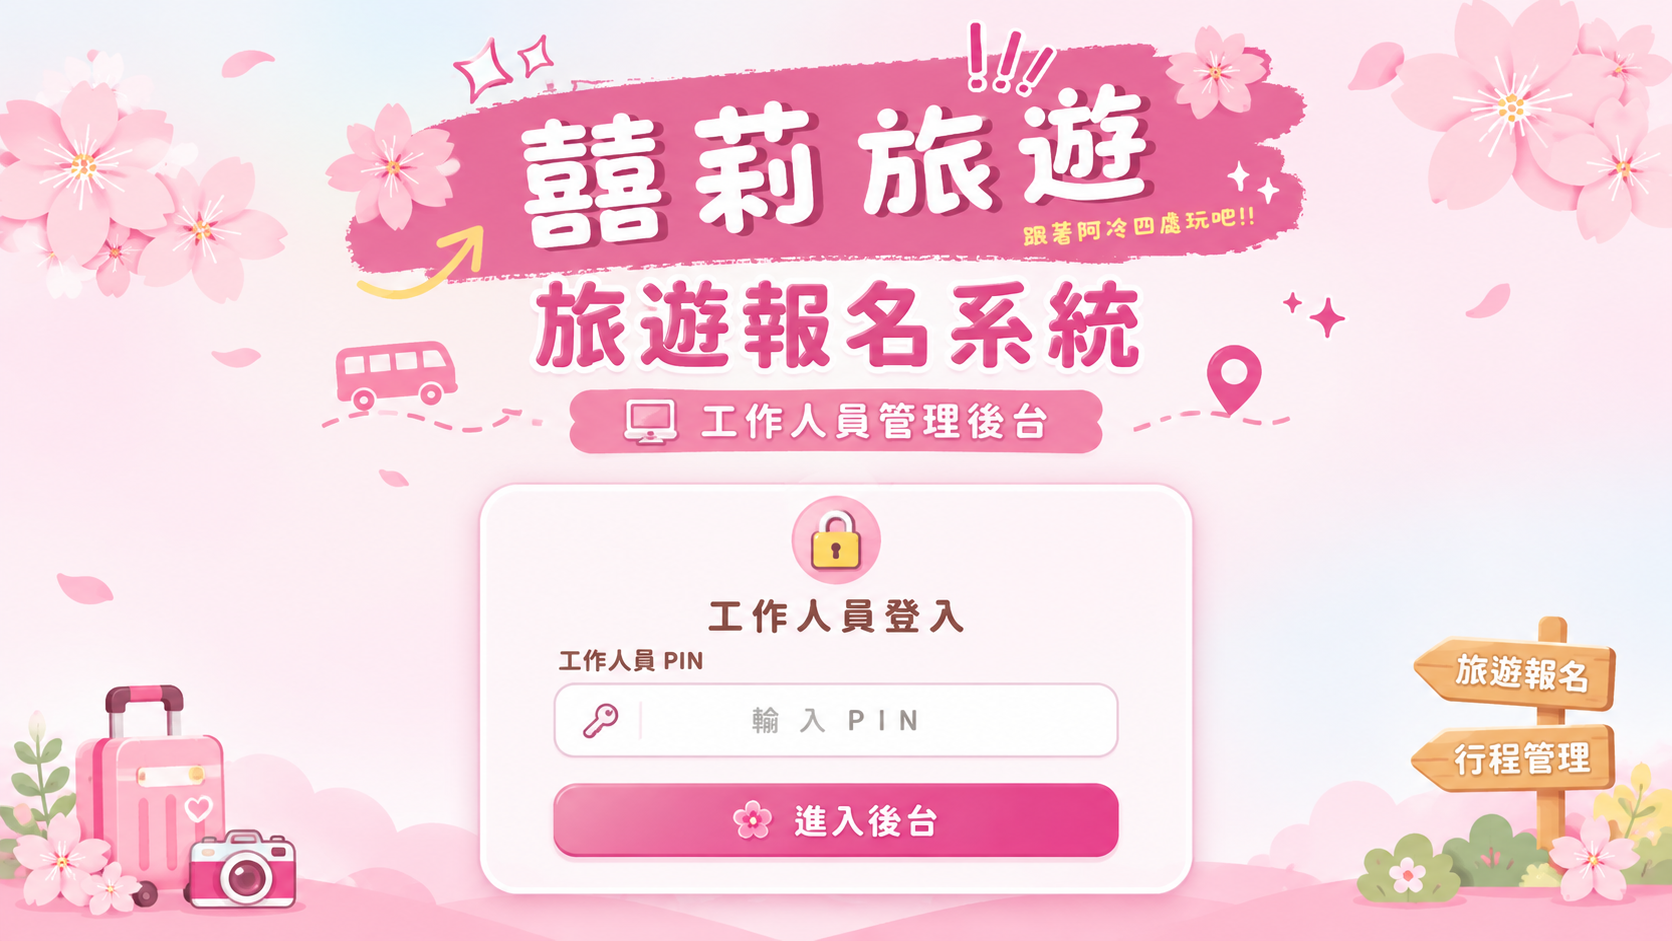
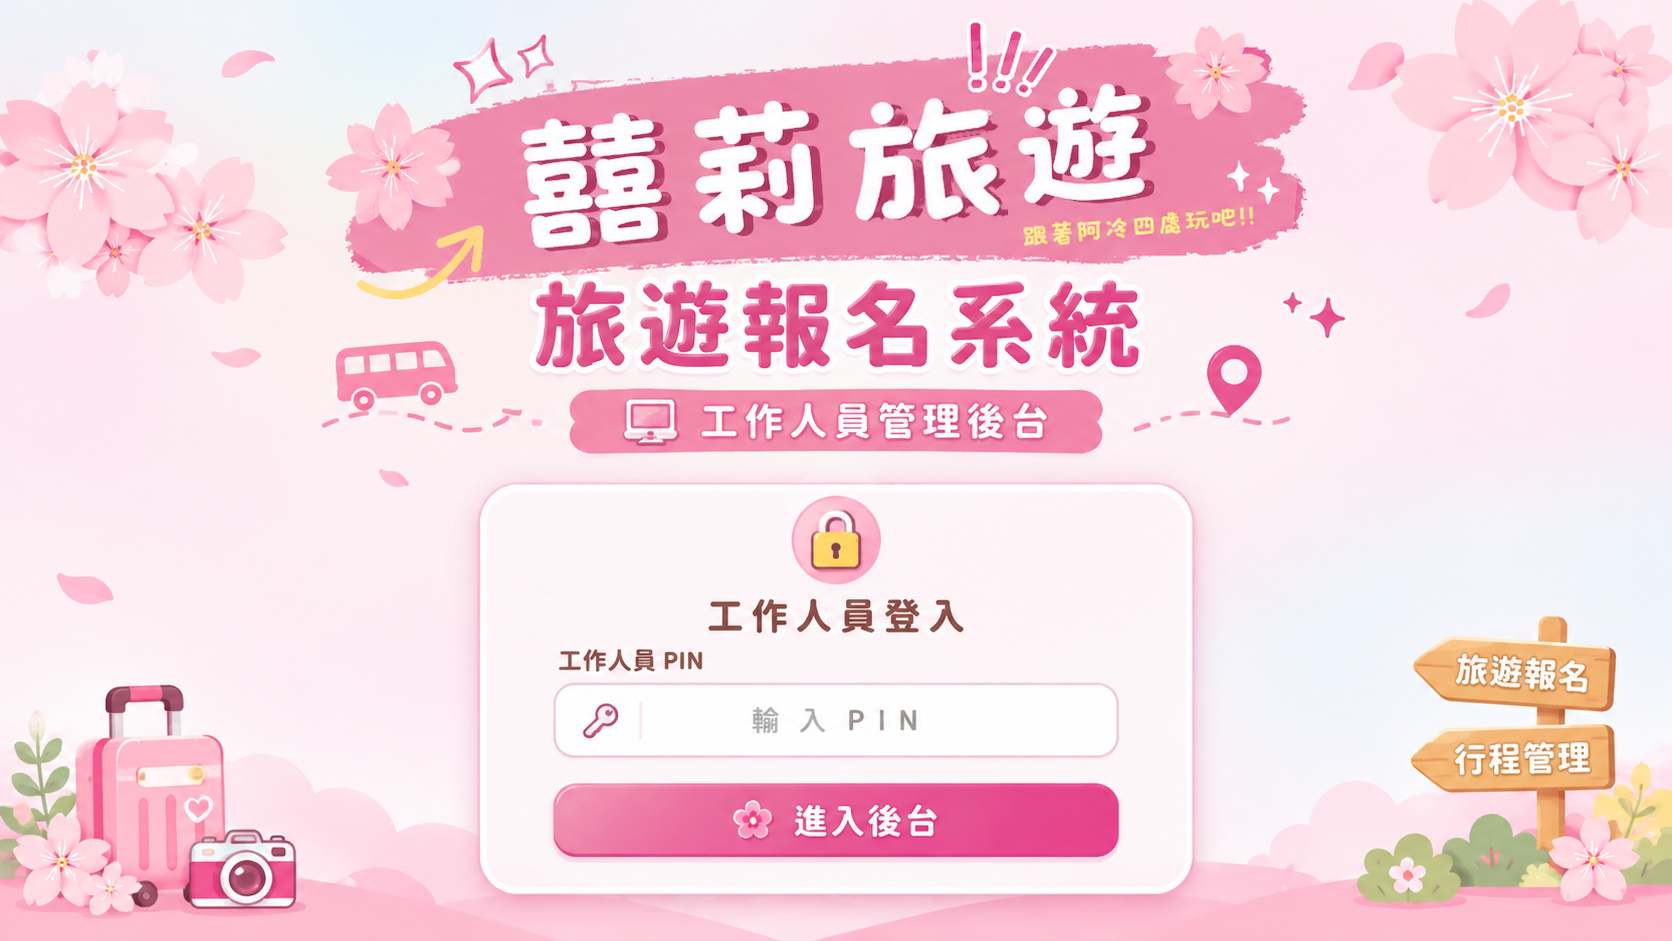
Add files via upload

Changed region(s): [[0.1866, 0.0308, 0.7775, 0.3082]]

diff --git a/admin.css b/admin.css
@@ -222,30 +222,35 @@
   inset: 0;
   margin: 0;
 }
-#adminLoginPassword {
+#adminLoginOverlay #adminLoginPassword,
+#adminLoginOverlay #adminLoginPassword:focus,
+#adminLoginOverlay #adminLoginPassword:focus-visible,
+#adminLoginOverlay #adminLoginPassword:active {
   position: absolute;
   left: 32.70%;
   top: 71.65%;
   width: 33.25%;
   height: 7.55%;
   padding: 0 16px;
-  border: 0;
-  border-radius: 12px;
-  outline: 0;
-  background: rgba(255,255,255,.02);
+  margin: 0;
+  border: 0 !important;
+  border-radius: 0 !important;
+  outline: 0 !important;
+  background: transparent !important;
   color: #875064;
   text-align: center;
   font-size: clamp(14px, 1.3vw, 22px);
   font-weight: 800;
   letter-spacing: .22em;
-  box-shadow: none;
+  box-shadow: none !important;
+  appearance: none;
+  -webkit-appearance: none;
 }
-#adminLoginPassword:focus {
-  /* 插畫本身已經有輸入框外框；焦點時只顯示游標，不再加第二圈邊框 */
-  background: transparent;
-  border: 0;
-  outline: 0;
-  box-shadow: none;
+#adminLoginOverlay #adminLoginPassword:focus,
+#adminLoginOverlay #adminLoginPassword:focus-visible {
+  border: 0 !important;
+  outline: 0 !important;
+  box-shadow: none !important;
 }
 #adminLoginPassword::placeholder { color: transparent; }
 #adminLoginSubmit {

diff --git a/admin.js b/admin.js
@@ -1333,6 +1333,13 @@ function initializeAdminLock() {
   `;
 
   document.body.appendChild(loginOverlay);
+
+  // 設計稿本身已包含 PIN 外框；輸入欄只負責接收文字，不再繪製第二層框線。
+  const desktopPinInput = document.getElementById("adminLoginPassword");
+  ["border", "outline", "box-shadow", "background", "border-radius", "appearance"].forEach(prop => {
+    desktopPinInput.style.setProperty(prop, prop === "background" ? "transparent" : "none", "important");
+  });
+
   lockAdminPage();
 
   const bindLoginForm = (formId, inputId, buttonId, errorId) => {
